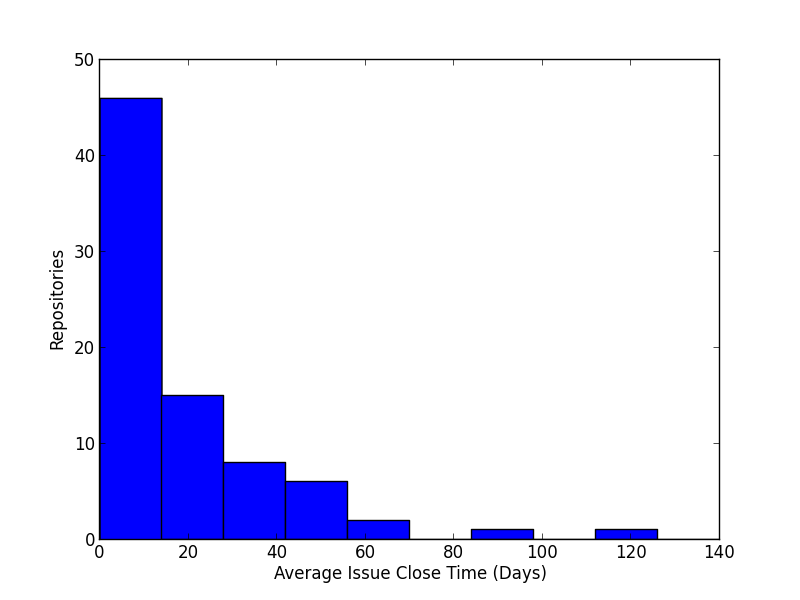
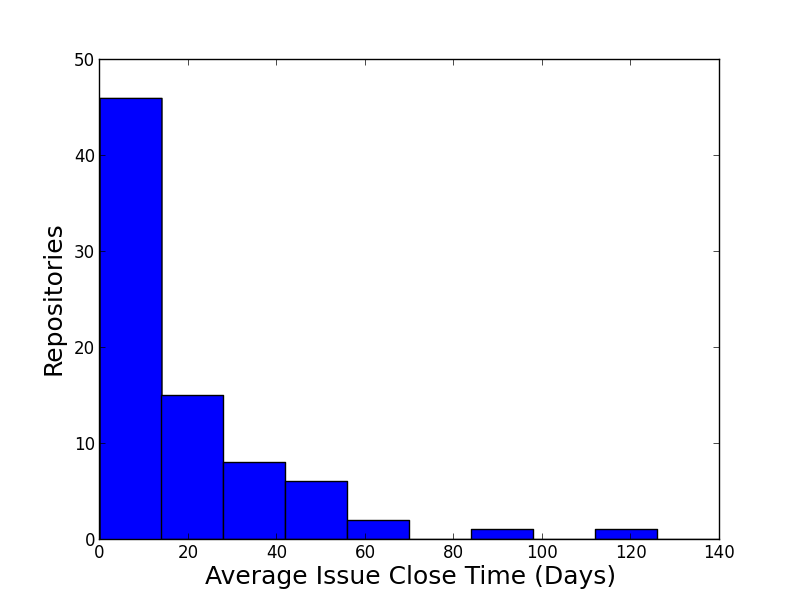
Added larger labels to diagrams.

Changed region(s): [[0.25, 0.93, 0.7812, 0.99], [0.0312, 0.36, 0.0938, 0.63]]

diff --git a/code/plotter.py b/code/plotter.py
@@ -72,13 +72,13 @@ class ScatterPlot:
 		plt.scatter(x,y)
 
 		correlation_coefficient = "%.4f" % numpy.corrcoef(x,y)[0,1]
-		title('Correlation Coefficient: ' + correlation_coefficient)
+		title('Correlation Coefficient: ' + correlation_coefficient, fontsize=18)
 
 		if float(correlation_coefficient) > 0.5:
 			plt.plot(x,y,'bo',x,m*numpy.array(x)+b,'-k',linewidth=2)
 
-		plt.xlabel(self.xlabel)
-		plt.ylabel(self.ylabel)
+		plt.xlabel(self.xlabel,fontsize=18)
+		plt.ylabel(self.ylabel,fontsize=18)
 		plt.xlim(self.xrange)
 		plt.ylim(self.yrange)
 	
@@ -112,8 +112,8 @@ class Histograph:
 
 		fig = plt.figure() 
 		plt.hist(x, range=self.range)
-		plt.xlabel(self.xlabel)
-		plt.ylabel(self.ylabel)
+		plt.xlabel(self.xlabel,fontsize=18)
+		plt.ylabel(self.ylabel,fontsize=18)
 
 		F = gcf()
 		F.savefig("../paper/images/"+filename+".png")
